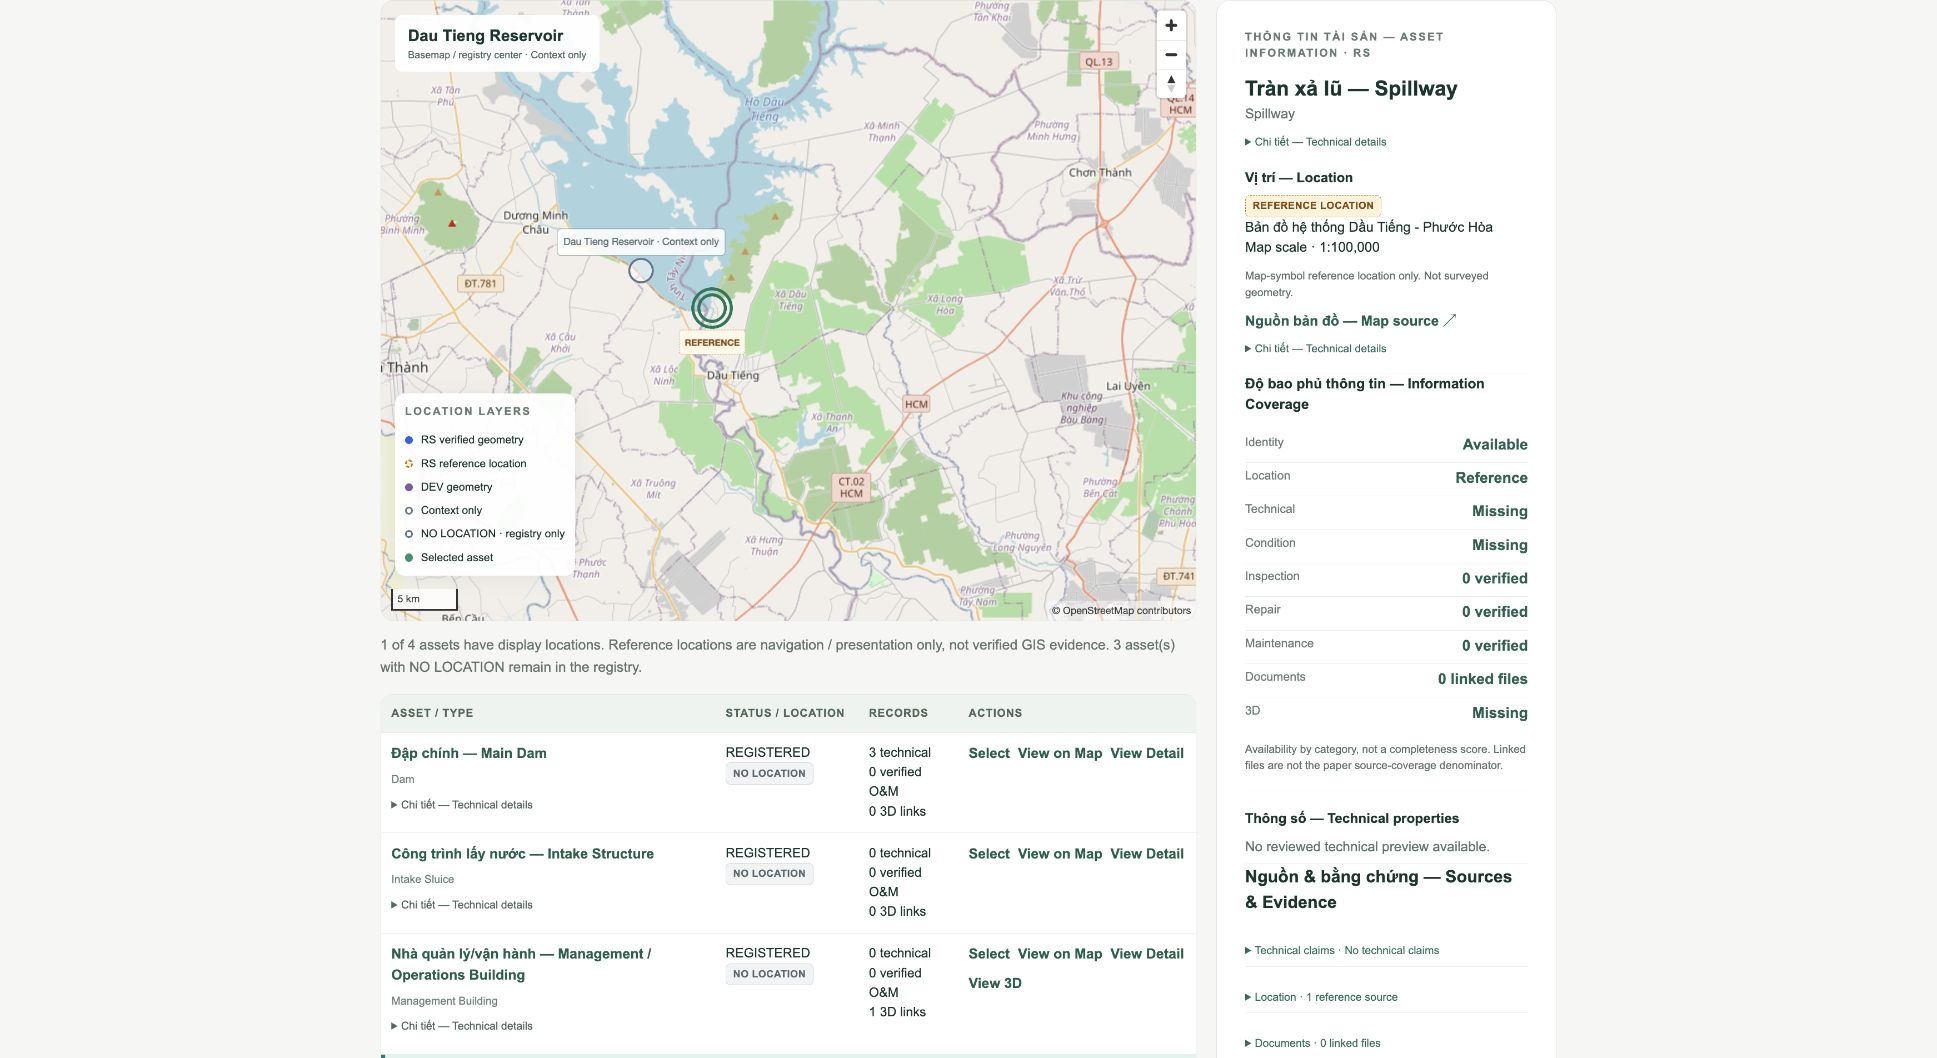
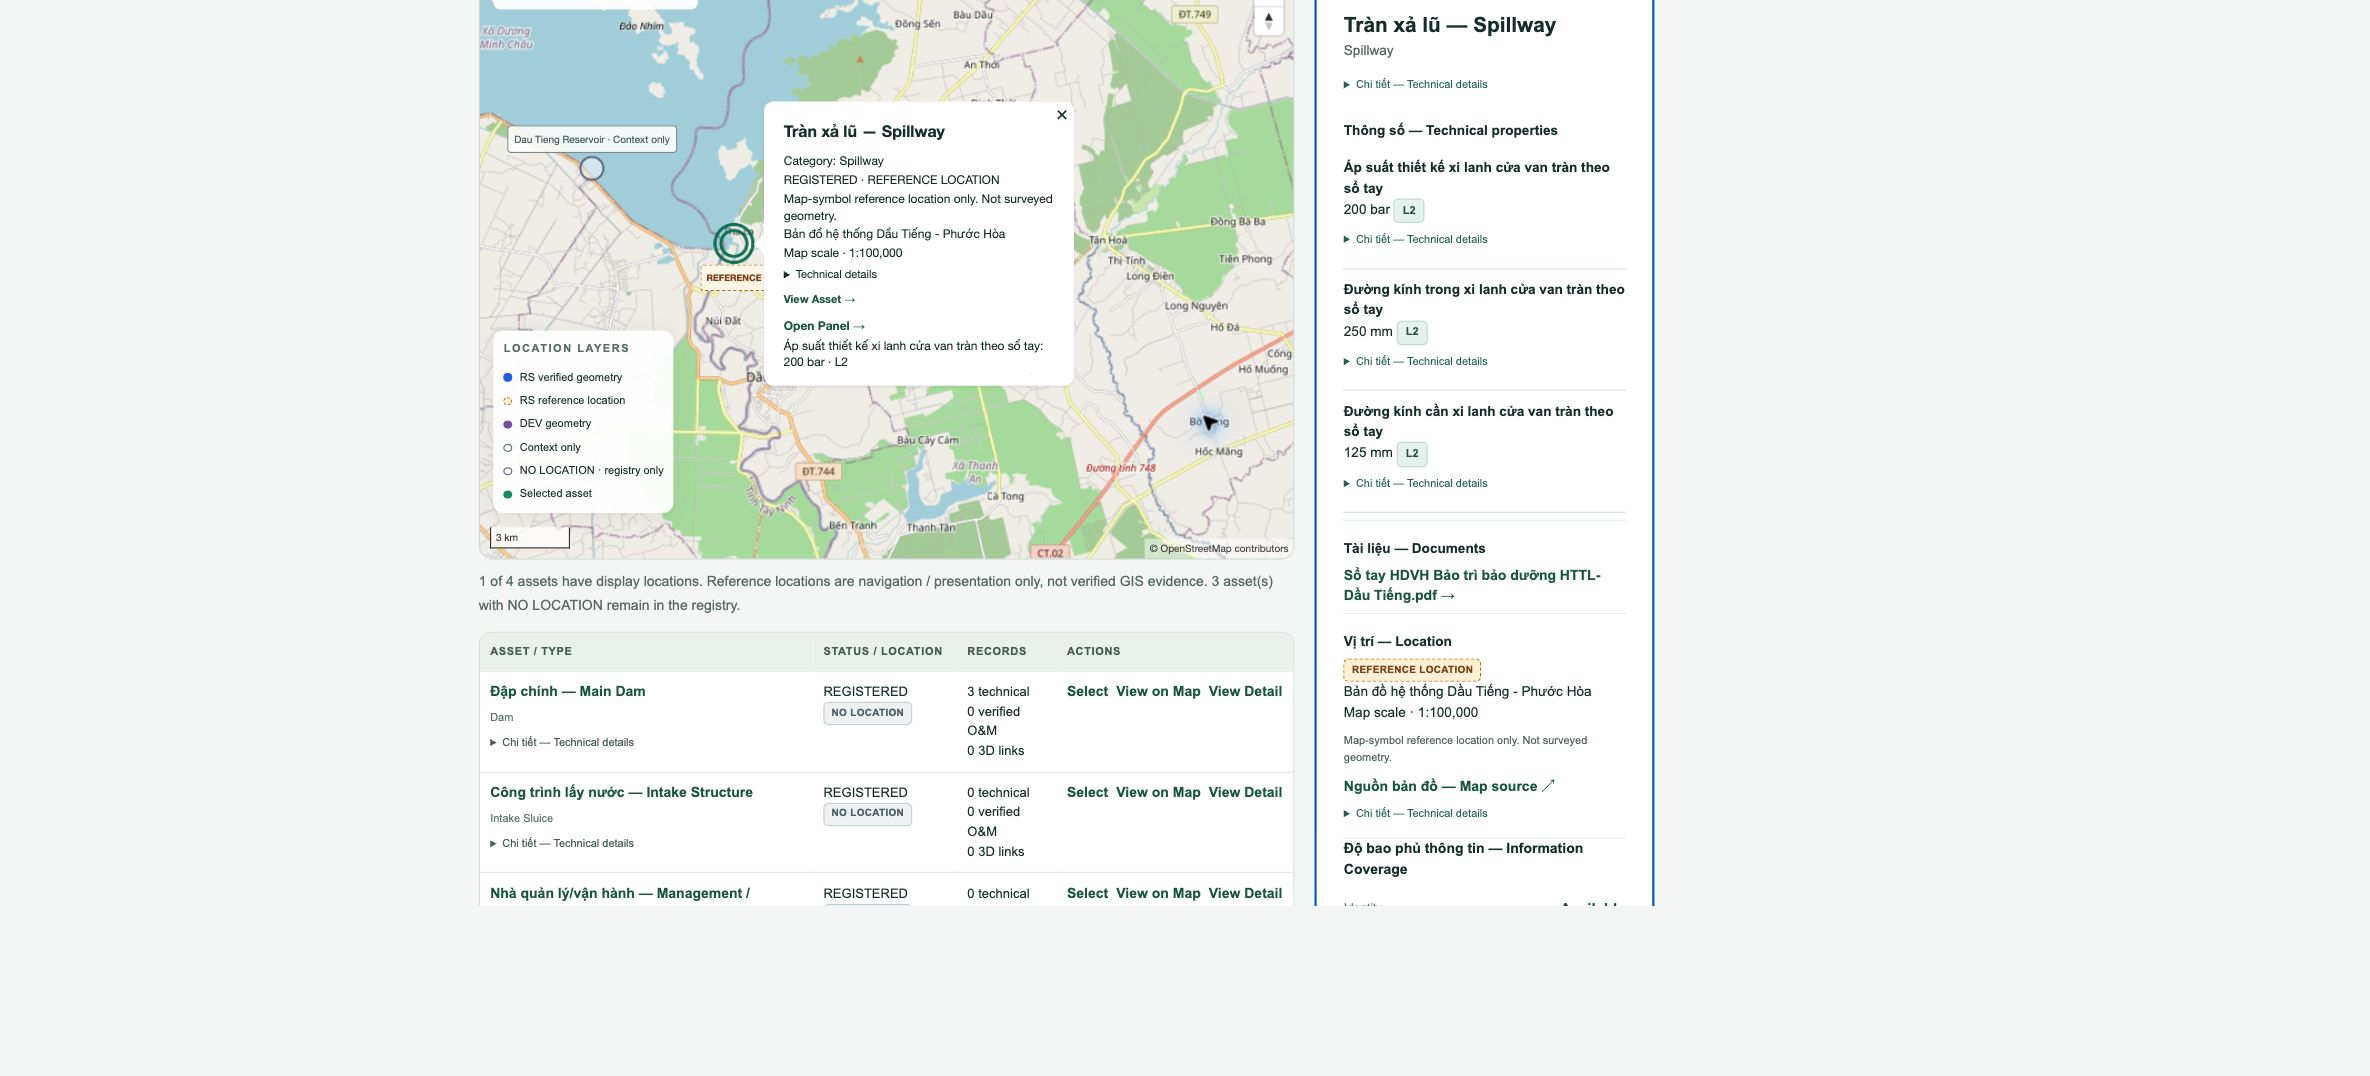
Refresh paper evidence after approved spillway L2 enrichment

diff --git a/docs/paper_img/README.md b/docs/paper_img/README.md
@@ -1,26 +1,11 @@
-# Paper images — PAPER-DATA-ENRICH-RECAPTURE
+# Paper images — PAPER-EVIDENCE-ENRICH-2
 
-S1.png–S7.png follow the screenshot identifiers in the supplied plan. They are real browser captures, converted from JPEG without content edits. Diagrams and composites are separately named.
+- S1.png: SPILLWAY detail after researcher approval: seven optional source-reported L2 technical fields and one linked manual. Reference location remains navigation only.
+- S2.png: SPILLWAY reference GIS with L2 technical excerpt and linked manual; hollow reference marker, scale and OSM attribution. No surveyed geometry or F02 promotion.
+- S3.png: One of seven approved SPILLWAY L2 fields with source details expanded. Field verification is separate from source UNKNOWN authority / UNVERIFIED status; no independent domain attestation.
+- S4.png: Linked hydraulic manual: filename, MIME, bytes, 51 pages and PDF toolbar. Public image is a sanitized header crop; actual page-1 preview is retained privately.
+- S5.png: Retained previous capture; unchanged representative 3D.
+- S6.png: Retained previous empty O&M capture; supplementary only.
+- S7.png: SPILLWAY coverage: seven L2 fields, one linked file, reference location, missing condition and zero verified O&M. Category availability is not a completeness score.
 
-| File | Paper placement | Meaning |
-|---|---|---|
-| S1.png | §4.2, Hình 6 current A | Selected DAM, L2 records and actual linked PDF |
-| S2.png | §3.4, Hình 3 A | Reference GIS; attribution and scale retained |
-| S3.png | §4.2 Hình 6 current B | Three historical L2 technical records |
-| S4.png | Supporting evidence | Actual PDF preview; native toolbar may show transient blob ID |
-| S5.png | §3.4 / §4.2 | LOCAL representative MGMT mapping |
-| S6.png | Private supporting evidence | No verified O&M record; not absence of real maintenance |
-| S7.png | §4.3 supplementary only | Information coverage and source/evidence summary |
-| Hinh_1.png | §3.1 | Authored phased architecture, not screenshot |
-| Hinh_2.png | §3.3 | Authored review workflow, not screenshot |
-| Hinh_3.png | §3.4 | S2 + S5; common asset-key navigation, different selected assets |
-| Hinh_5_current.png | §4.1 | Controlled GeoPDF context; only approved SPILLWAY reference annotation |
-| Hinh_6_current.png | §4.2 | S1 + S3 + S5 |
-
-Hình 5 current → Hình 4 and Hình 6 current → Hình 5 only at manuscript-final when all cross-references are updated. §5 refers back to these figures and Tables 2/3; no decorative discussion figures.
-
-All four canonical RS geometries remain NULL. Reference location is not verified GIS; LOCAL representative mapping is not full semantic decomposition. F02/F05 and NOT_READY/not frozen remain unchanged. No synthetic coverage score.
-
-Figure state, capture URLs, snapshot and sidecar checksums are recorded in the private research/evaluation/results/paper package. Images retain source content; this folder is for the requested local document preparation and the existing private repository, not authorization for public source redistribution.
-
-Current screenshots S1–S7 were freshly captured for software 6c14892. Previous image bytes and hashes are archived in private evidence/PAPER-DATA-ENRICH-RECAPTURE/previous-docs. Hình 1/2 and Hình 5 current remain byte-identical. Composite S5 uses separate actual canvas, identity/LOCAL and navigation-link excerpts; full condition/O&M fields remain in S5/S6.
+Hình 3 = S2 + retained S5. Hình 6 current = S1 + S3 + retained S5. Hình 1/2/5 unchanged. S4 excludes private page content; full preview is in the private package. Exact per-image capture lineage and hashes are in manifest.json.

diff --git a/STAGE_OUTPUTS.md b/STAGE_OUTPUTS.md
@@ -350,3 +350,28 @@ Kết quả triển khai và kiểm tra theo từng stage.
 - Current counts/DB/media unchanged; Table 2 recomputed from explicit stage after snapshot. 46 active controlled hashes and both sidecars match baseline. Source admission proposals do not change 17/12; four canonical geometries remain NULL, reference=1, technical=3 L2, verified condition/O&M=0, documents=5, 3D target/link=1/1. F02/F05 pending, NOT_READY/not frozen.
 - No affected screenshot: S1–S7 and diagrams/composites keep original bytes/capture lineage 6c14892, Hình 6=S1+S3+S5. Figure state records a separate review checkpoint; private package manifest updated to 44 hashes. No new capture set or false recapture date.
 - Browser/API baseline checked. No task service/container started; preexisting web 3000/API 8000/PostGIS preserved. Continue once the genuine review decisions arrive.
+
+
+## Stage PAPER-EVIDENCE-ENRICH-2 — approval applied
+
+The explicit user approval is recorded as nhuffan / RESEARCHER, not a fabricated domain-expert attestation. Seven optional SPILLWAY source-reported technical fields HYD-T01/T02/T08–T12 were admitted at L2, together with source RS-SRC-018 and retained document RS-DOC-041. Required MAIM and independent domain/methodology gates were not approved by this operation. Manual procedures remain reference material; no completed event or current condition was inferred. SP-I01–03 and MGMT identity/effective-date candidates remain pending their specific source/event contracts.
+
+| Measure | Before | After |
+|---|---:|---:|
+| Technical L2 records | 3 | 10 |
+| Controlled / expected-file sources | 17 / 12 | 18 / 13 |
+| Distinct retained documents | 5 | 6 |
+| API asset-document links | 1 | 2 |
+| Verified condition / O&M | 0 / 0 | 0 / 0 |
+| Canonical geometry / reference location | 0 / 1 | 0 / 1 |
+| Selected 3D target / representative link | 1 / 1 | 1 / 1 |
+
+Source remains UNKNOWN authority and UNVERIFIED independently of field-level L2 decisions. Dry-run → apply → retry completed: source/technical retry 8 UNCHANGED; document retry 1 UNCHANGED. Snapshot audit confirms only one source, seven technical records and one document were added; all prior rows and stored media hashes are unchanged. API and browser show seven SPILLWAY L2 records and one linked manual. Five review-boundary tests pass, including rejection of researcher-only approvals for required MAIM, L3 and events. No frontend/API schema changed; no new full build or full regression claimed.
+
+S1/S2/S3/S4/S7 freshly captured at software d9a1c7c. S3 shows one expanded field/source excerpt, not all seven values. Public S4 is a metadata/toolbar crop; full page-1 preview stays private. S5/S6 and Hình 1/2/5 preserve old bytes/date/software. Hình 3 = new S2 + retained S5; Hình 6 = new S1 + new S3 + retained S5. Capture sets, captions, tables and hashes distinguish mixed capture lineage.
+
+Methodology input checksums were refreshed without rebinding old approvals. Updated package remains NOT_READY / NOT_FROZEN; F02/F05 are pending. Previous package approval is stale and source-boundary/provenance methodology coverage needs reconciliation for added records. The private readiness-final report lists every gate. These imports do not establish research completeness or observed operational performance.
+
+No task service was started; preexisting API, web and PostGIS remain running. Raw originals, approvals and candidate files remain private/ignored.
+
[1 lines of base64/hex data omitted]

diff --git a/research/evaluation/paper_preparation.md b/research/evaluation/paper_preparation.md
@@ -138,3 +138,28 @@ After snapshot and API confirm the prior Table 2: 4 RS/4 researcher identities, 
 No displayed data or UI changed, so S1–S7 and all composites/diagrams retain their exact bytes, existing capture set and UI commit 6c14892. Hình 6 stays S1+S3+S5; no old image is relabeled as a fresh capture. Figure state adds a separate data-review checkpoint, and the private package manifest now hashes 44 files. F02/F05 pending, NOT_READY and not frozen remain. No service was started.
 
 Private packet: `research/evaluation/evidence/PAPER-EVIDENCE-ENRICH-2/review_request.md`, `evidence_candidate_review.csv`, proposed dictionary, field/source approval templates, source/evidence register, conflict notes and import gate report. Continue with the actual human field/source decisions, then compile→dry-run→apply→retry and recapture only affected figures.
+
+
+## PAPER-EVIDENCE-ENRICH-2 — approval applied
+
+The explicit user approval is recorded as nhuffan / RESEARCHER, not a fabricated domain-expert attestation. Seven optional SPILLWAY source-reported technical fields HYD-T01/T02/T08–T12 were admitted at L2, together with source RS-SRC-018 and retained document RS-DOC-041. Required MAIM and independent domain/methodology gates were not approved by this operation. Manual procedures remain reference material; no completed event or current condition was inferred. SP-I01–03 and MGMT identity/effective-date candidates remain pending their specific source/event contracts.
+
+| Measure | Before | After |
+|---|---:|---:|
+| Technical L2 records | 3 | 10 |
+| Controlled / expected-file sources | 17 / 12 | 18 / 13 |
+| Distinct retained documents | 5 | 6 |
+| API asset-document links | 1 | 2 |
+| Verified condition / O&M | 0 / 0 | 0 / 0 |
+| Canonical geometry / reference location | 0 / 1 | 0 / 1 |
+| Selected 3D target / representative link | 1 / 1 | 1 / 1 |
+
+Source remains UNKNOWN authority and UNVERIFIED independently of field-level L2 decisions. Dry-run → apply → retry completed: source/technical retry 8 UNCHANGED; document retry 1 UNCHANGED. Snapshot audit confirms only one source, seven technical records and one document were added; all prior rows and stored media hashes are unchanged. API and browser show seven SPILLWAY L2 records and one linked manual. Five review-boundary tests pass, including rejection of researcher-only approvals for required MAIM, L3 and events. No frontend/API schema changed; no new full build or full regression claimed.
+
+S1/S2/S3/S4/S7 freshly captured at software d9a1c7c. S3 shows one expanded field/source excerpt, not all seven values. Public S4 is a metadata/toolbar crop; full page-1 preview stays private. S5/S6 and Hình 1/2/5 preserve old bytes/date/software. Hình 3 = new S2 + retained S5; Hình 6 = new S1 + new S3 + retained S5. Capture sets, captions, tables and hashes distinguish mixed capture lineage.
+
+Methodology input checksums were refreshed without rebinding old approvals. Updated package remains NOT_READY / NOT_FROZEN; F02/F05 are pending. Previous package approval is stale and source-boundary/provenance methodology coverage needs reconciliation for added records. The private readiness-final report lists every gate. These imports do not establish research completeness or observed operational performance.
+
+No task service was started; preexisting API, web and PostGIS remain running. Raw originals, approvals and candidate files remain private/ignored.
+
[1 lines of base64/hex data omitted]
